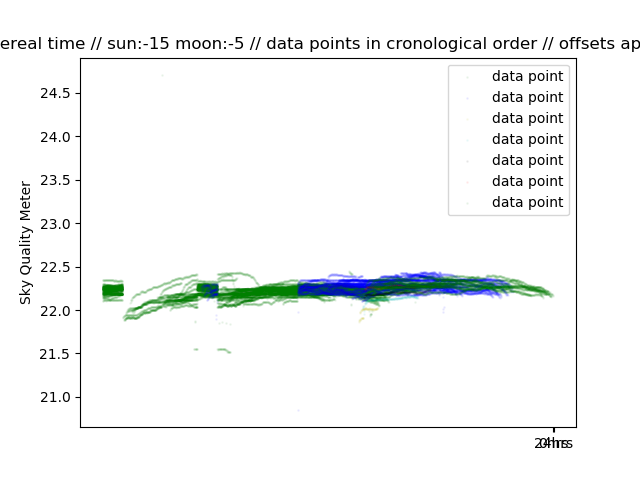
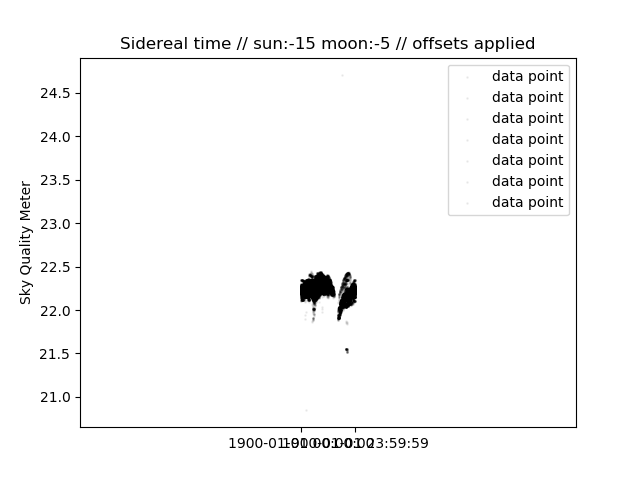
offsets_sid con datetime, pero estaba mejor de la otra manera parece

diff --git a/offsets_sid.py b/offsets_sid.py
@@ -10,6 +10,7 @@ from pylab import cm
 import datetime
 import pymysql.cursors
 import ephemerids
+from datetime import datetime
 
 #colors = ['r', 'y', 'b', 'greenyellow', 'c', 'g', 'black']
 
@@ -52,33 +53,35 @@ x9 = []
 offset9 = 0.34
 counter = 0
 for e in res:
+    time = datetime.strptime(e[2], '%H:%M:%S.%f')
+    print time
     #print e[2][0:5]
     # if e[0] <= '2017-07-04 10:29:14':
-    # 	x.append(e[2][0:5])
+    # 	x.append(time)
     # 	y.append(e[1] + offset)
     # elif e[0] <= '2017-08-05 10:17:15':
-    #     x2.append(e[2][0:5])
+    #     x2.append(time)
     # 	y2.append(e[1] + offset2)
     if e[0] <= '2017-11-30 08:15:29':
-        x3.append(e[2][0:5])
+        x3.append(time)
     	y3.append(e[1] + offset3)
     elif e[0] <= '2018-01-29 08:54:35':
-        x4.append(e[2][0:5])
+        x4.append(time)
     	y4.append(e[1] + offset4)
     elif e[0] <= '2018-02-04 01:46:23':
-        x5.append(e[2][0:5])
+        x5.append(time)
     	y5.append(e[1] + offset5)
     elif e[0] <= '2018-02-07 03:34:24':
-        x6.append(e[2][0:5])
+        x6.append(time)
     	y6.append(e[1] + offset6)
     elif e[0] <= '2018-02-08 04:10:21':
-        x7.append(e[2][0:5])
+        x7.append(time)
     	y7.append(e[1] + offset7)
     elif e[0] <= '2018-02-09 03:19:30':
-        x8.append(e[2][0:5])
+        x8.append(time)
     	y8.append(e[1] + offset8)
     elif e[0] <= '2018-02-22 09:19:23':
-        x9.append(e[2][0:5])
+        x9.append(time)
     	y9.append(e[1] + offset9)
     counter += 1
 
@@ -95,10 +98,10 @@ plt.scatter(x9, y9, 1, c='black', alpha=0.05, label='data point')
 plt.legend()
 plt.title('Sidereal time // sun:-15 moon:-5 // offsets applied')
 plt.ylabel('Sky Quality Meter')
-ticks = ['00:00', '24:00']
-ticks_labels = ['0hrs', '24hrs']
-time_start = time(0,0,0)
-time_end = time(24,0,0)
+# ticks = ['00:00', '24:00']
+# ticks_labels = ['0hrs', '24hrs']
+time_start = datetime(1900,1,1,0,0,0)
+time_end = datetime(1900,1,1,23,59,59)
 ticks = [time_start, time_end]
 ticks_labels = [time_start, time_end]
 plt.xticks(ticks, ticks_labels)
